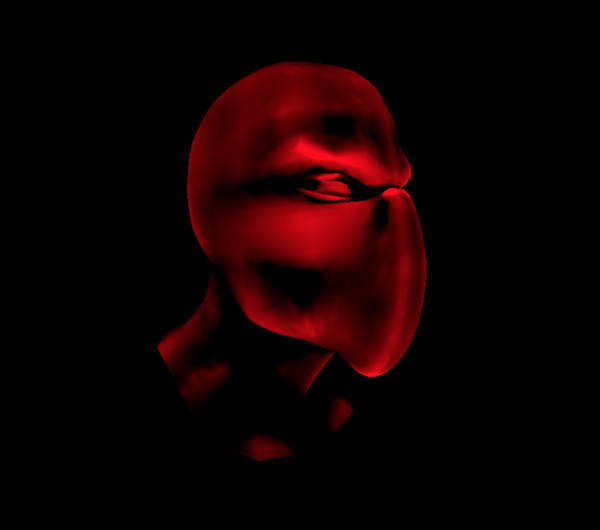
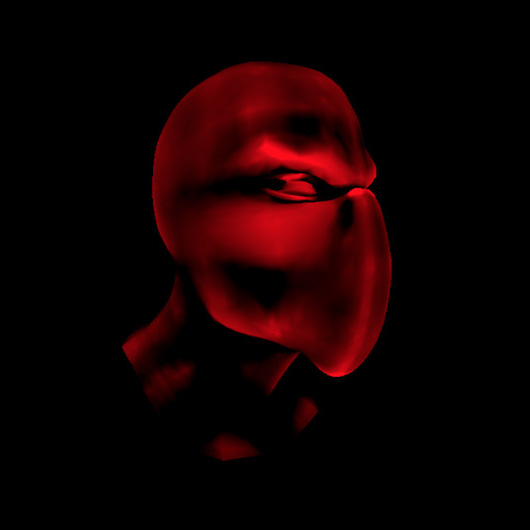
Conveted all thumbnail images to jpeg and 600x600. Removed not working projects. Reordered projects.

diff --git a/src/constants/index.js b/src/constants/index.js
@@ -10,14 +10,9 @@ export const projects = [
     link: 'ai-animation',
   },
   {
-    name: 'SKINNED MESH IK',
-    img: 'img/ik.png',
-    link: 'https://jsantell.github.io/THREE.IK/examples/#skinned-mesh',
-  },
-  {
-    name: 'BOX PROJECTED ENVIRONMENT MAPPING',
-    img: 'img/bpcem.png',
-    link: 'https://threejs.org/examples/?q=envm#webgl_materials_envmaps_parallax',
+    name: 'GENDERGRAPH',
+    img: 'img/gendergraph.jpg',
+    link: 'gendergraph',
   },
   {
     name: 'RELAXATION ROOM',
@@ -25,18 +20,28 @@ export const projects = [
     link: 'relaxation-room',
   },
   {
+    name: 'BOX PROJECTED ENVIRONMENT MAPPING',
+    img: 'img/bpcem.jpg',
+    link: 'https://threejs.org/examples/?q=envm#webgl_materials_envmaps_parallax',
+  },
+  {
     name: 'GALACTIC GYPSY',
     img: 'img/galactic-gypsy.jpg',
     link: 'galactic-gypsy',
   },
   {
+    name: 'SKINNED MESH IK',
+    img: 'img/skinned-mesh-ik.jpg',
+    link: 'https://jsantell.github.io/THREE.IK/examples/#skinned-mesh',
+  },
+  {
     name: 'GROW YOUR OWN BOT',
-    img: 'img/creatures.png',
+    img: 'img/creatures.jpg',
     link: 'grow-your-own-bot',
   },
   {
     name: 'NEUROJAM',
-    img: 'img/neurojam.png',
+    img: 'img/neurojam.jpg',
     link: 'neurojam.html',
   },
   {
@@ -46,14 +51,14 @@ export const projects = [
   },
   {
     name: 'AURACARIA DREAMS',
-    img: 'img/auracaria-dreams.png',
+    img: 'img/auracaria-dreams.jpg',
     link: 'auracaria-dreams',
   },
-  {
-    name: 'STREET SOUNDS',
-    img: 'img/street-sonds.jpg',
-    link: 'https://streetsounds.tk',
-  },
+  // {
+  //   name: 'STREET SOUNDS',
+  //   img: 'img/street-sonds.jpg',
+  //   link: 'https://streetsounds.tk',
+  // },
   {
     name: 'THREEJS CURVATURE',
     img: 'img/curvatureExample.jpg',
@@ -80,11 +85,6 @@ export const projects = [
     link: 'whirlpools.html',
   },
   {
-    name: 'GENDERGRAPH',
-    img: 'img/gendergraph.jpg',
-    link: 'gendergraph',
-  },
-  {
     name: 'PHOTOSPHERES',
     img: 'img/photospheres.jpg ',
     link: 'photospheres.html',
@@ -94,11 +94,11 @@ export const projects = [
     img: 'img/terminal-prints.jpg',
     link: 'terminal-prints.html',
   },
-  {
-    name: 'SUBCITY',
-    img: 'img/subcity.jpg',
-    link: 'http://subcity.tk',
-  },
+  // {
+  //   name: 'SUBCITY',
+  //   img: 'img/subcity.jpg',
+  //   link: 'http://subcity.tk',
+  // },
 ];
 
 export const socialIconsUsers = [

diff --git a/README.md b/README.md
@@ -13,7 +13,13 @@ yarn dev
 
 Fist add your project to `server.js`
 If you want it to show up on the main page also edit `projects` in `constants/index.js`
-You will need to prepare 600x600 pixel project thumbnail and place it under `public/img`
+You will need to prepare project thumbnail and place it under `public/img`
+
+Thumbnail requirements:
+
+- Image size 600x600 pixel
+- JPEG format
+- JPEG quality is 0.8 or 80%
 
 ```
 # Create new submodule
